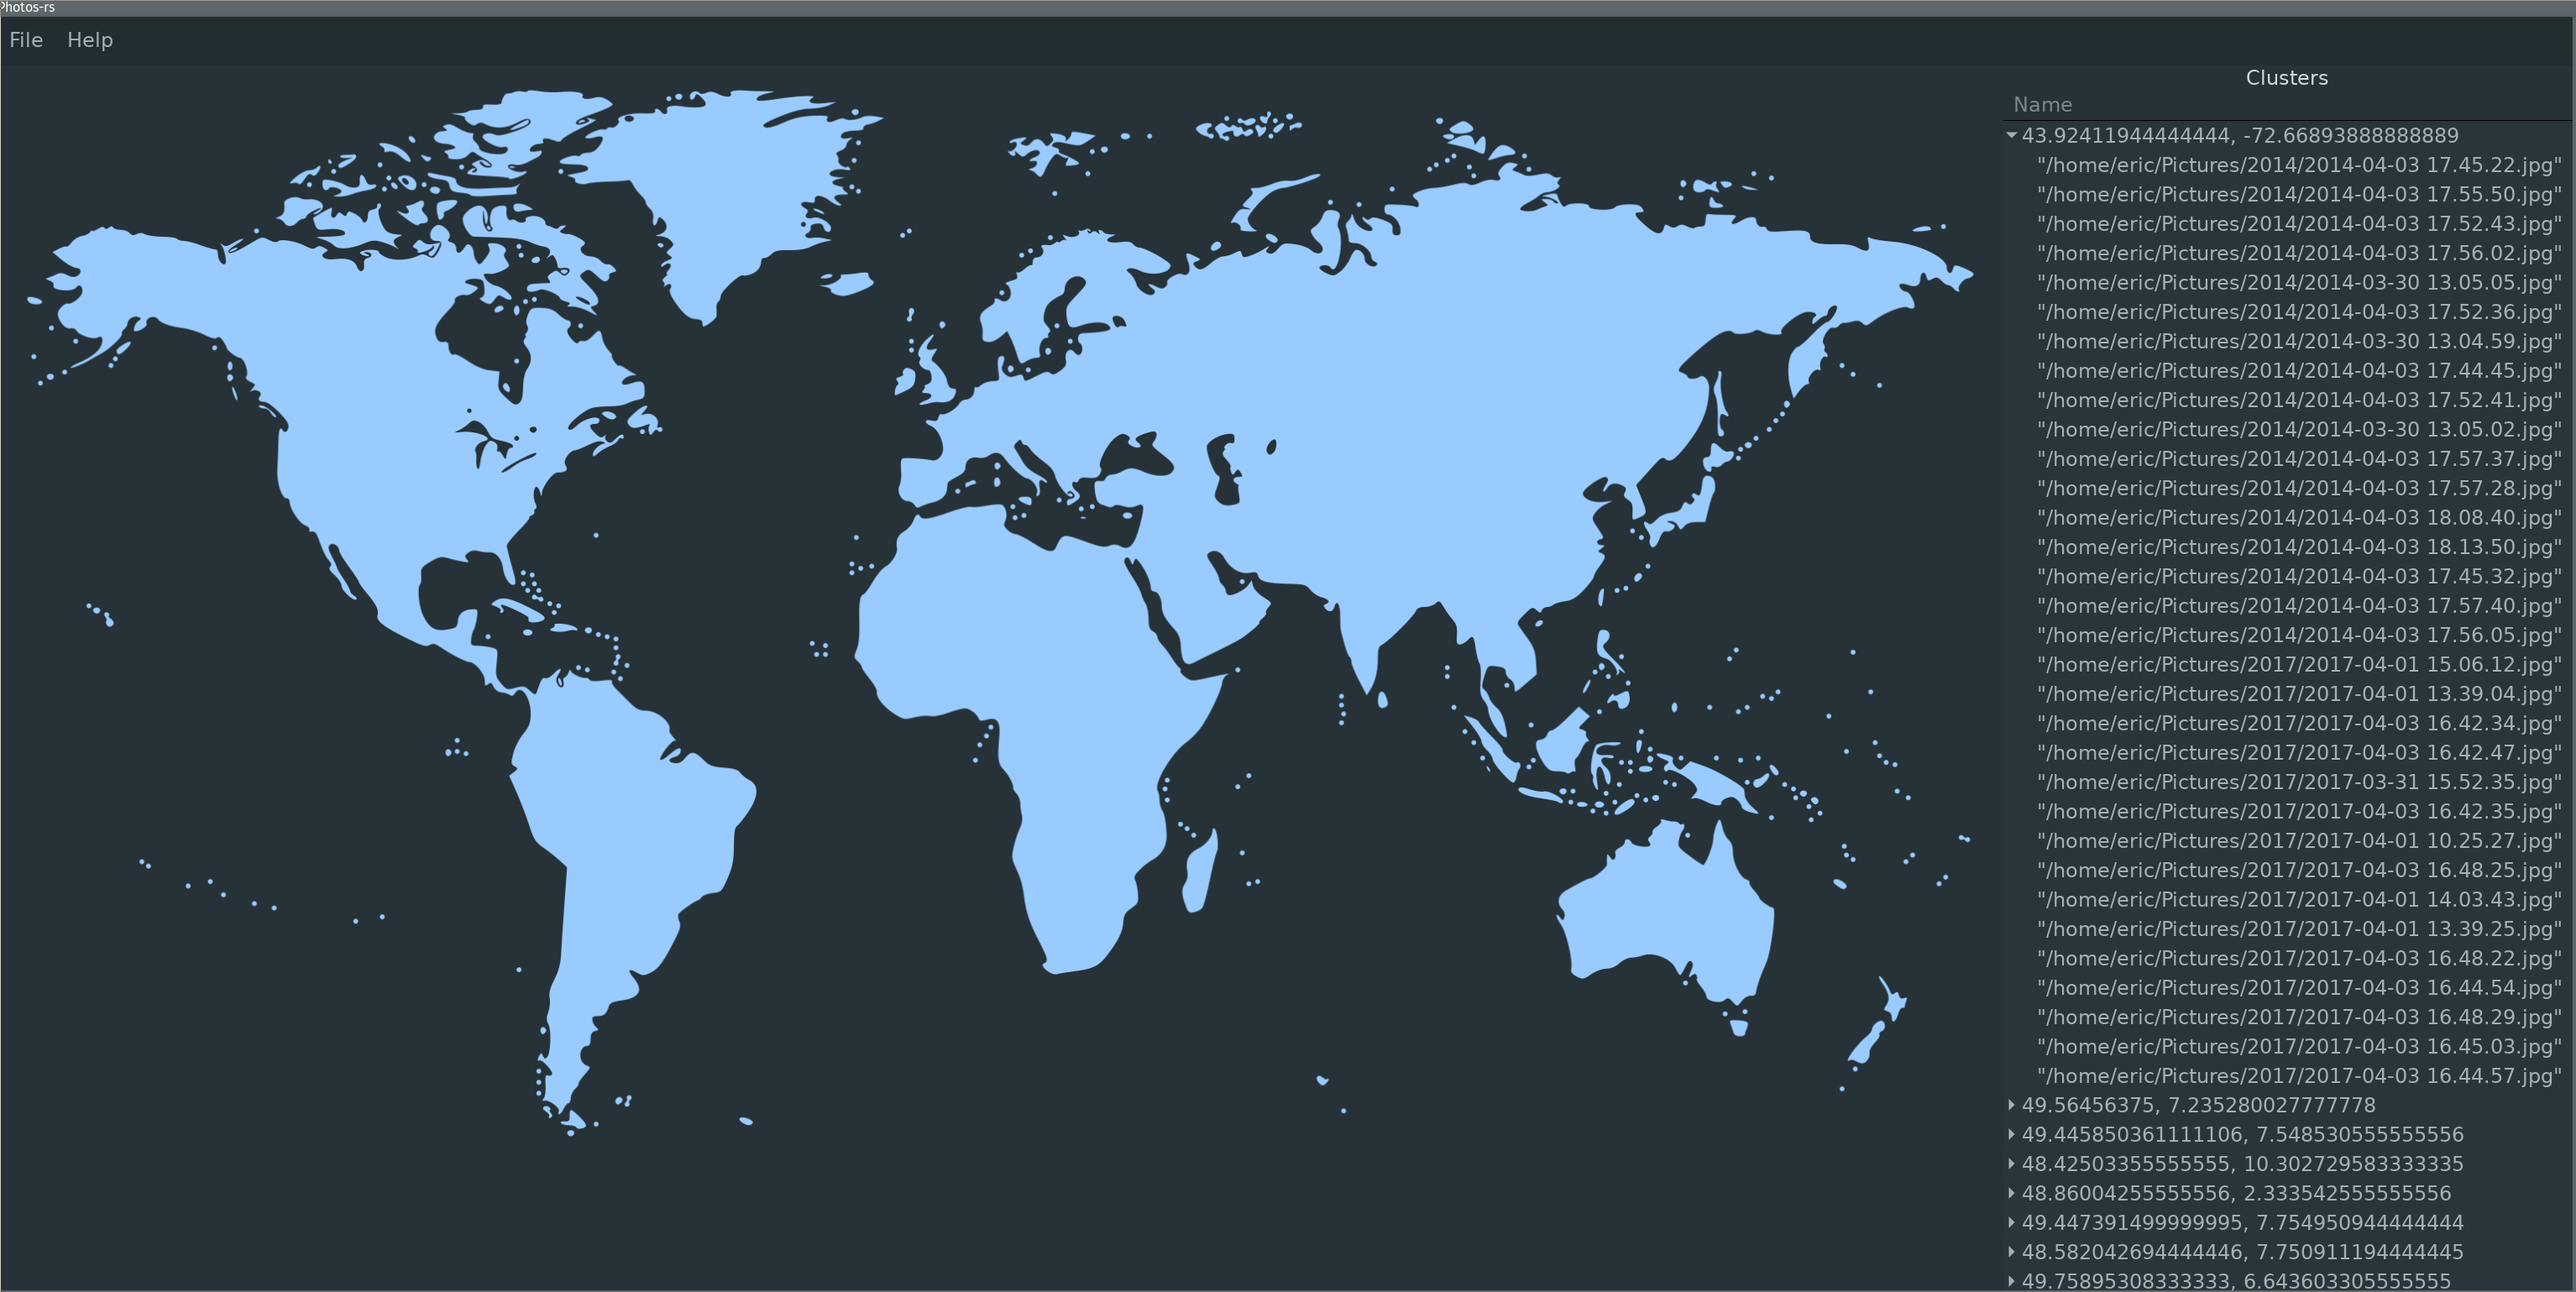
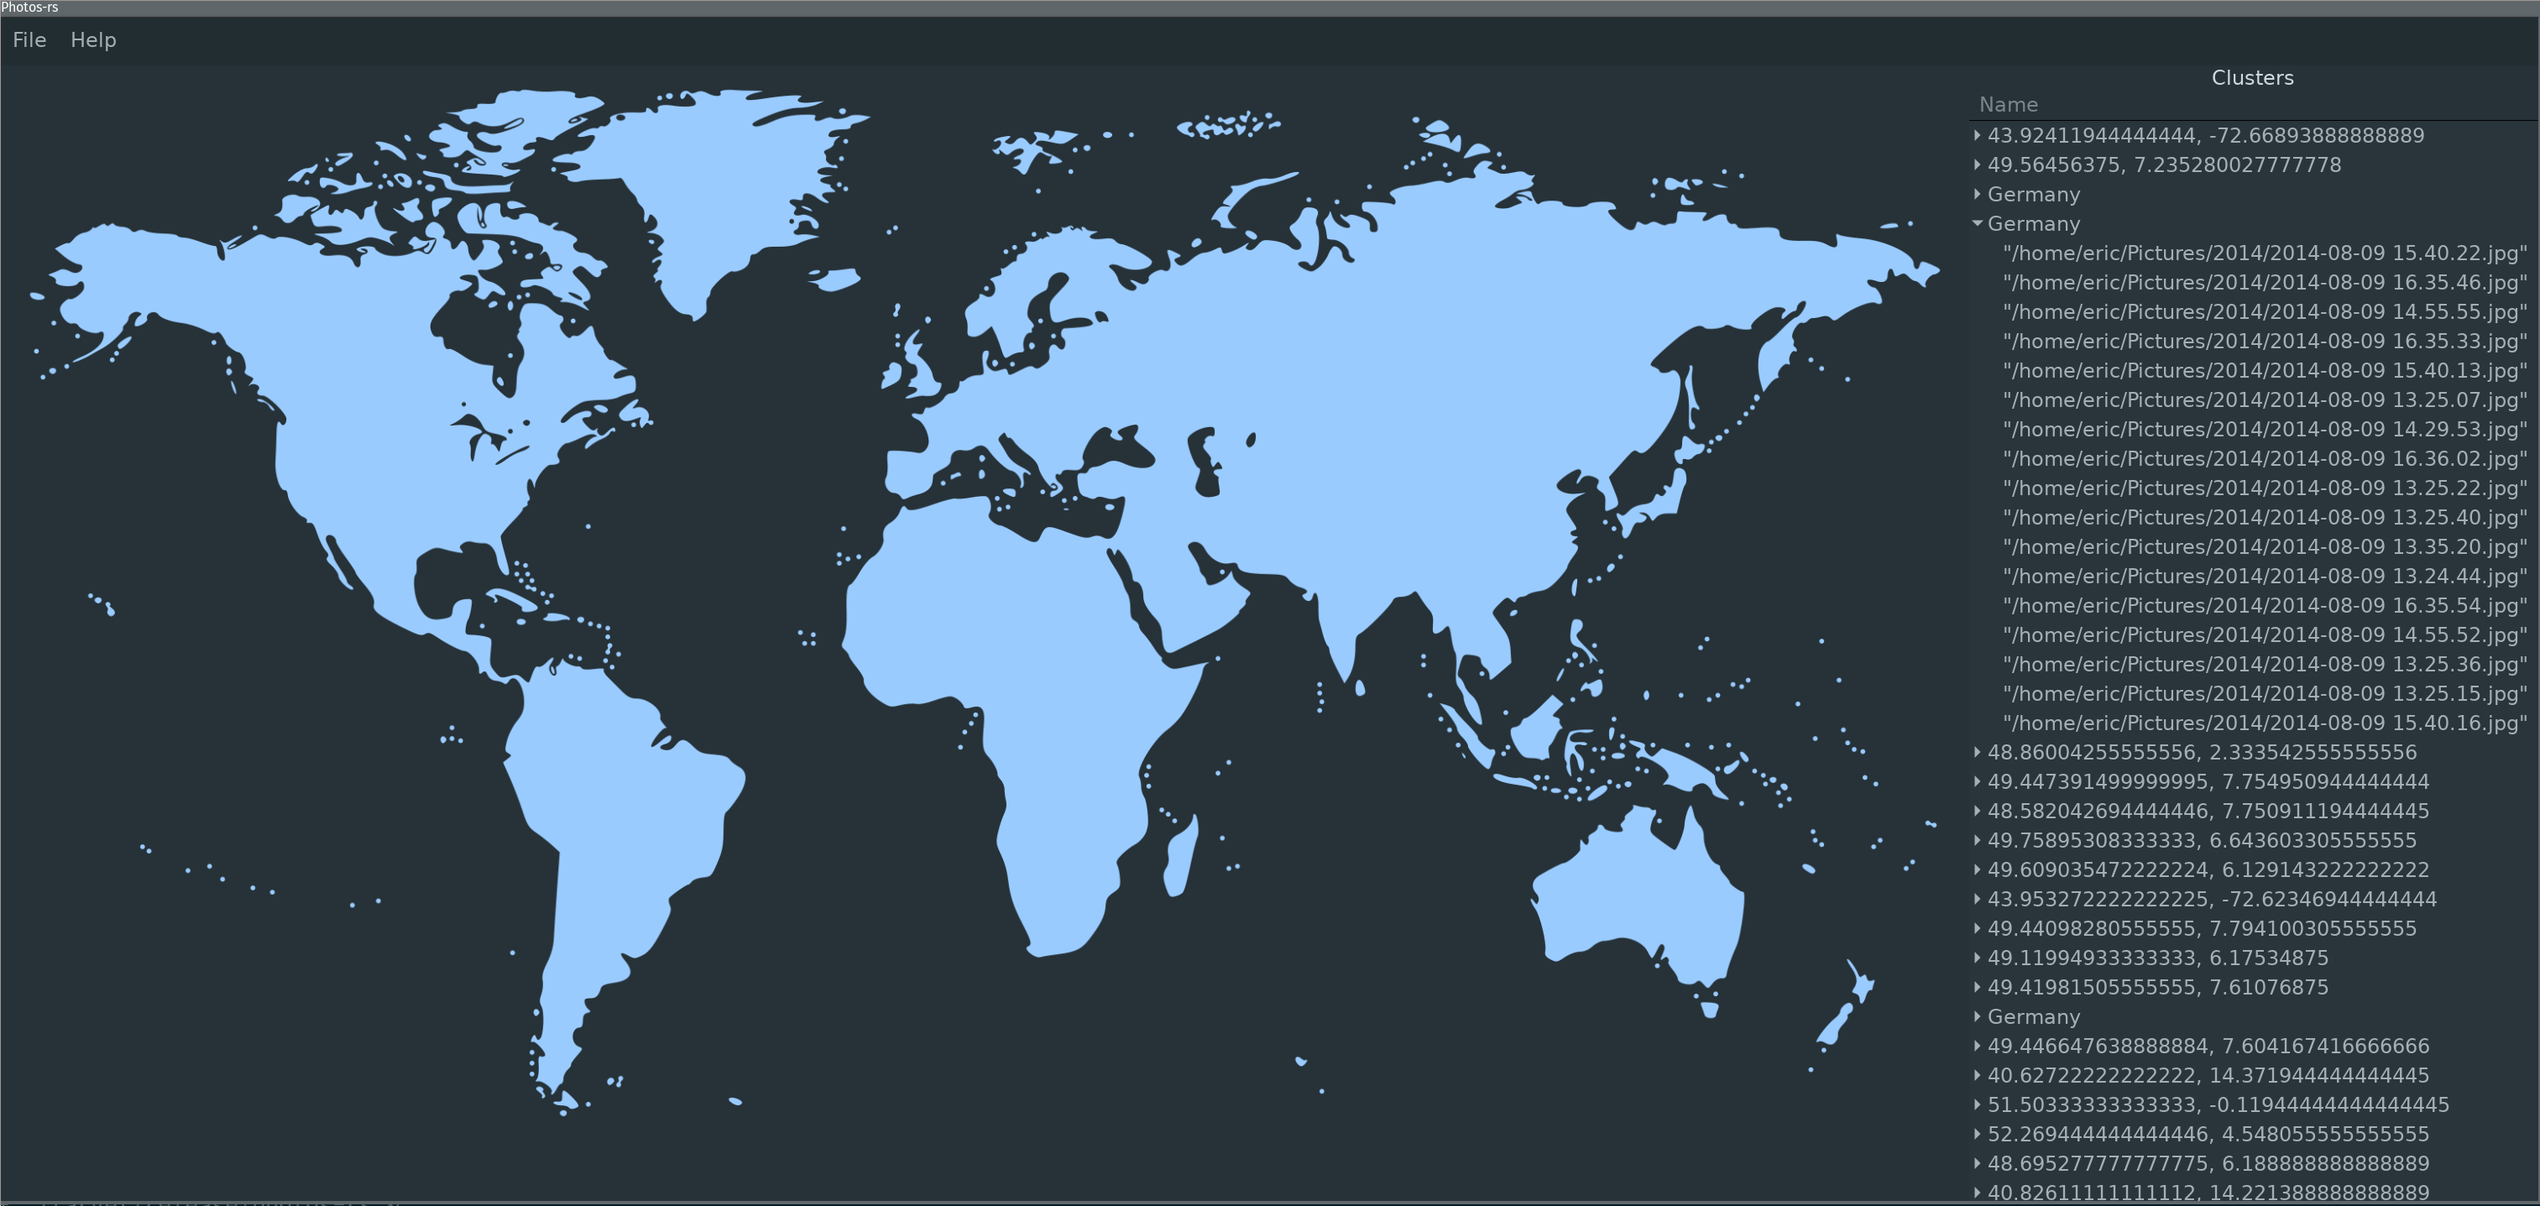
added location lookup for geo results

diff --git a/src/main.rs b/src/main.rs
@@ -19,6 +19,9 @@ extern crate relm_derive;
 extern crate futures;
 extern crate futures_cpupool;
 extern crate reqwest;
+#[macro_use]
+extern crate serde_derive;
+extern crate serde;
 extern crate serde_json;
 
 use rexiv2::Metadata;
@@ -40,7 +43,9 @@ use relm_attributes::widget;
 use futures::Future;
 use futures::Async::Ready;
 use futures_cpupool::{CpuPool, CpuFuture};
-use serde_json::{Value, Error};
+use serde_json::{Value, Error, Map};
+use geo::Bbox;
+use geo::contains::Contains;
 
 mod photo;
 
@@ -48,6 +53,31 @@ use photo::{Photo, TimePhoto};
 use self::Msg::*;
 use self::ViewMsg::*;
 use self::MenuMsg::*;
+
+#[derive(Deserialize, Debug)]
+struct Geo {
+    address: Map<String, Value>,
+    #[serde(deserialize_with = "parse_bbox")]
+    boundingbox: Bbox<f64>,
+}
+
+fn parse_bbox<'de, D>(de: D) -> Result<Bbox<f64>, D::Error>
+where
+    D: serde::Deserializer<'de>,
+{
+    let deser_result: serde_json::Value = try!(serde::Deserialize::deserialize(de));
+    match deser_result {
+        serde_json::Value::Array(ref s) => {
+            Ok(Bbox {
+                xmin: s[2].as_str().unwrap().parse::<f64>().unwrap(),
+                xmax: s[3].as_str().unwrap().parse::<f64>().unwrap(),
+                ymin: s[0].as_str().unwrap().parse::<f64>().unwrap(),
+                ymax: s[1].as_str().unwrap().parse::<f64>().unwrap(),
+            })
+        }
+        _ => Err(serde::de::Error::custom("Unexpected value")),
+    }
+}
 
 // The messages that can be sent to the update function.
 #[derive(Msg)]
@@ -266,7 +296,7 @@ impl Widget for Win {
                                                                                     lat.to_string(), 
                                                                                     lon.to_string()))
                 .map(|(key, lat, lon)| {
-                    let req = format!("http://locationiq.org/v1/reverse.php?format=json&zoom=14&key={}&lat={}&lon={}",
+                    let req = format!("http://locationiq.org/v1/reverse.php?format=json&zoom=13&key={}&lat={}&lon={}",
                                     key, lat, lon);
                     let mut resp = reqwest::get(&req).unwrap();
                     let mut content = String::new();
@@ -277,9 +307,16 @@ impl Widget for Win {
                 queue.push(self.model.pool.spawn(some_future));
             },
             Processed(result) => {
-                if let Ok(v) = serde_json::from_str::<Value>(&result){
-                    println!("{}\n{}\n", v["address"], v["boundingbox"]);
-                    //self.view.emit(UpdateView(self.cluster_location()));
+                if let Ok(v) = serde_json::from_str::<Geo>(&result){
+                    println!("{:?}\n{:?}\n", v.address["country"], v.boundingbox);
+                    for photo in self.model.photos.iter_mut() {
+                        if let Some(location) = photo.location {
+                            if v.boundingbox.contains(&location){
+                                photo.location_name = Some(v.address["country"].as_str().unwrap().to_owned());
+                            }
+                        } 
+                    }
+                    self.view.emit(UpdateView(self.cluster_location()));
                 }
             },
             Process => {
@@ -444,8 +481,7 @@ impl Win {
             let top = model.append(None);
             if let Some(x) = cluster.iter().find(|&&x| self.model.photos[x].location_name.is_some()){
                 model.set(&top, &[0], &[self.model.photos[*x].location_name.as_ref().unwrap()]);
-            }
-            if let Some(point) = self.model.photos[cluster[0]].location {
+            } else if let Some(point) = self.model.photos[cluster[0]].location {
                 model.set(&top, &[0], &[&format!("{}, {}",point.y(), point.x())]);
                 self.model.relm.stream().emit(GeoLookup(point.y(), point.x()));
             }
